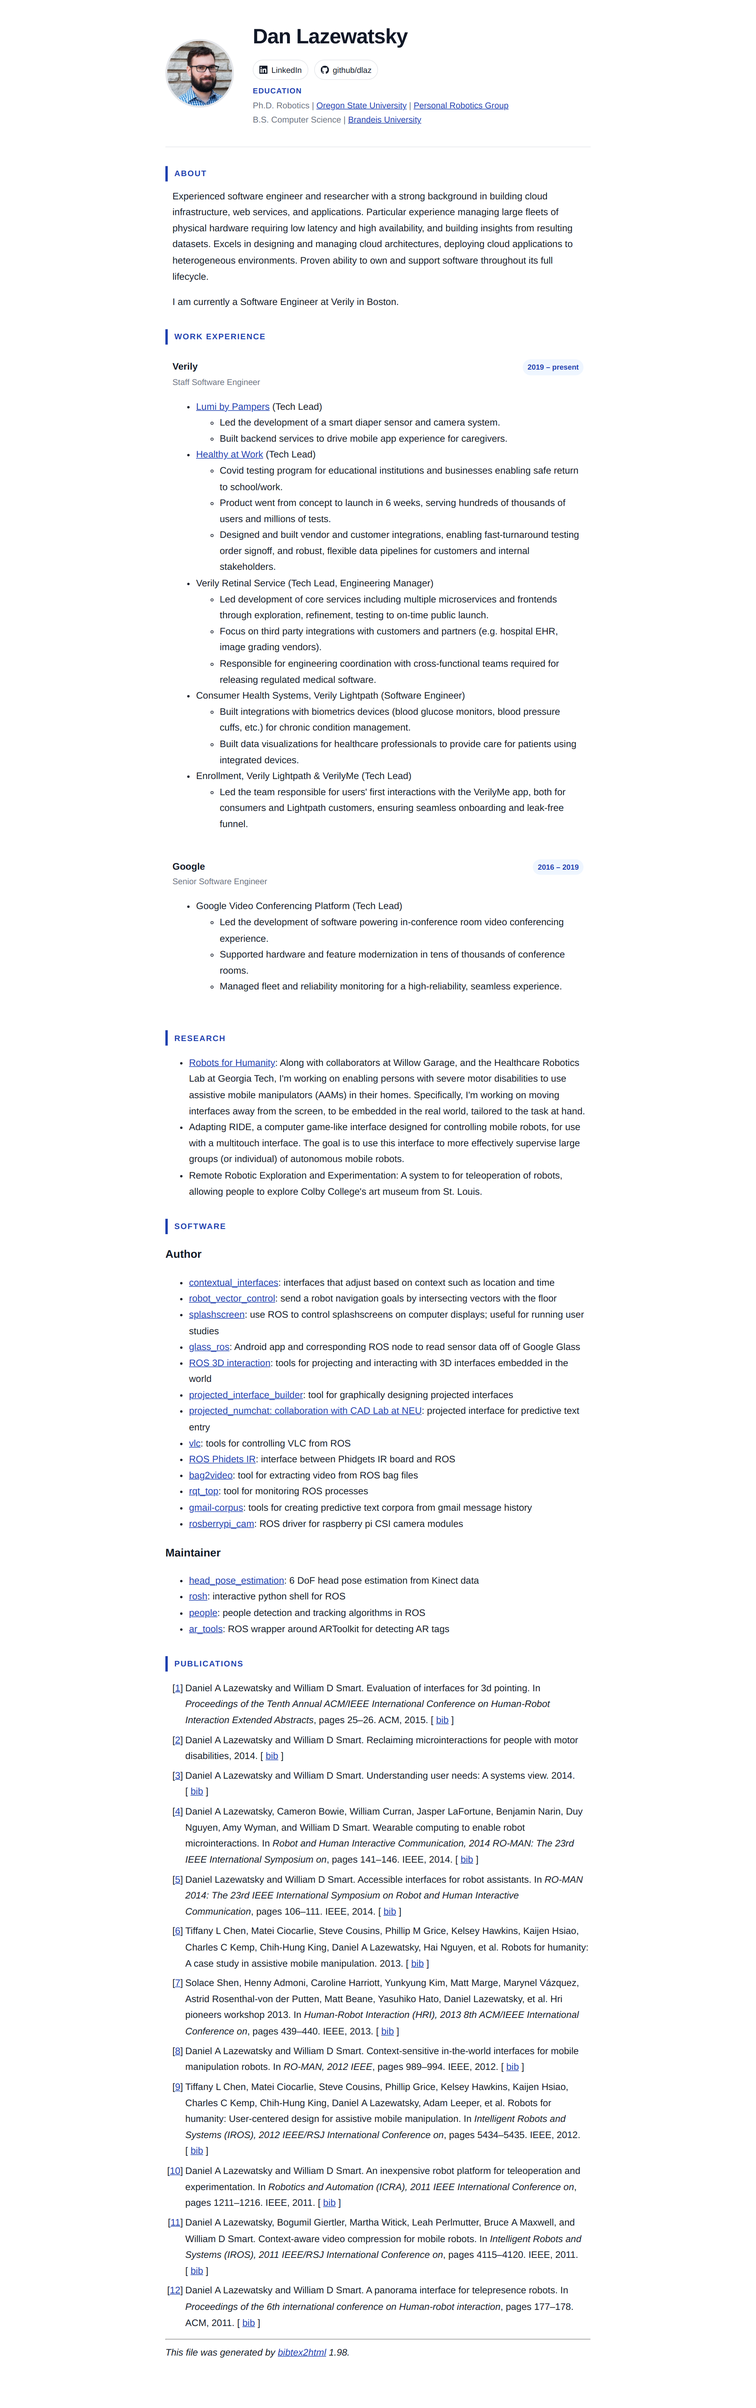
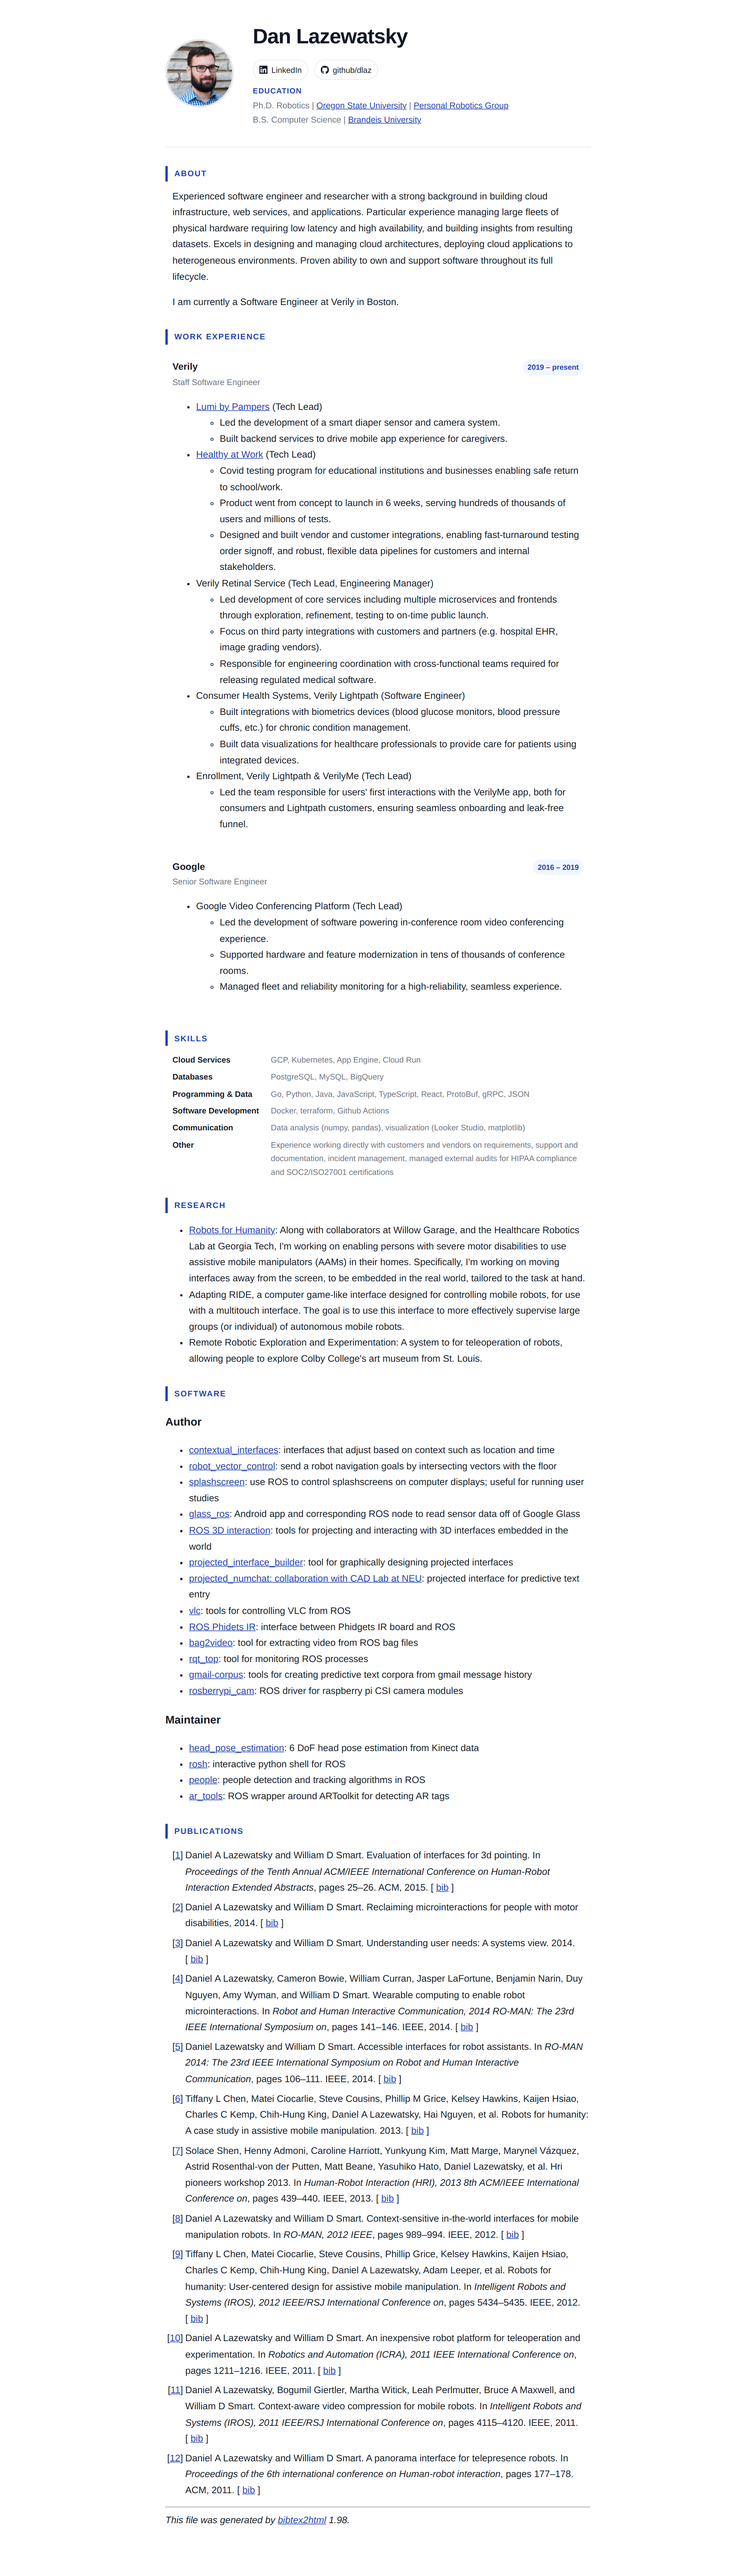
fix: add display:contents to .skills-row so grid columns align correctly
Agent-Logs-Url: https://github.com/dlaz/dlaz.github.com/sessions/9372f4d7-924b-43cc-9cd7-36849bdebe5d

Changed region(s): [[0.2188, 0.0, 0.7812, 0.9949], [0.6875, 0.3731, 0.7188, 0.4042], [0.625, 0.3731, 0.6562, 0.4042]]

diff --git a/index.html b/index.html
@@ -198,6 +198,42 @@ Google Video Conferencing Platform (Tech Lead)
   </div>
 
 
+  <h2>Skills</h2>
+  <div class="skills-grid">
+
+    <div class="skills-row">
+      <div class="skills-category">Cloud Services</div>
+      <div class="skills-items">GCP, Kubernetes, App Engine, Cloud Run</div>
+    </div>
+
+    <div class="skills-row">
+      <div class="skills-category">Databases</div>
+      <div class="skills-items">PostgreSQL, MySQL, BigQuery</div>
+    </div>
+
+    <div class="skills-row">
+      <div class="skills-category">Programming &amp; Data</div>
+      <div class="skills-items">Go, Python, Java, JavaScript, TypeScript, React, ProtoBuf, gRPC, JSON</div>
+    </div>
+
+    <div class="skills-row">
+      <div class="skills-category">Software Development</div>
+      <div class="skills-items">Docker, terraform, Github Actions</div>
+    </div>
+
+    <div class="skills-row">
+      <div class="skills-category">Communication</div>
+      <div class="skills-items">Data analysis (numpy, pandas), visualization (Looker Studio, matplotlib)</div>
+    </div>
+
+    <div class="skills-row">
+      <div class="skills-category">Other</div>
+      <div class="skills-items">Experience working directly with customers and vendors on requirements, support and documentation, incident management, managed external audits for HIPAA compliance and SOC2/ISO27001 certifications</div>
+    </div>
+
+  </div>
+
+  <div class="no-pdf">
   <h2>Research</h2>
   <div>
     <ul>
@@ -268,8 +304,9 @@ Google Video Conferencing Platform (Tech Lead)
 
     </ul>
   </div>
+  </div>
 
-  <div id="publications-section">
+  <div id="publications-section" class="no-pdf">
   <h2>Publications</h2>
   <div>
     <table>

diff --git a/styles.css b/styles.css
@@ -190,6 +190,9 @@ div.section {
     gap: 0.35rem 1.25rem;
     padding: 0 0.75rem;
 }
+.skills-row {
+    display: contents;
+}
 .skills-category {
     font-weight: 600;
     font-size: 0.85rem;
